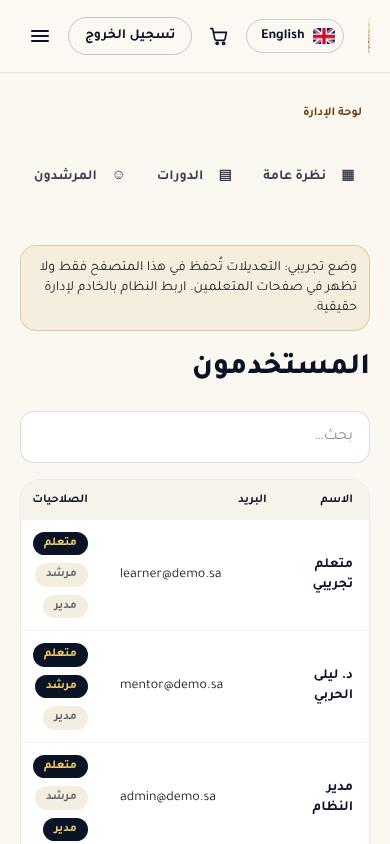
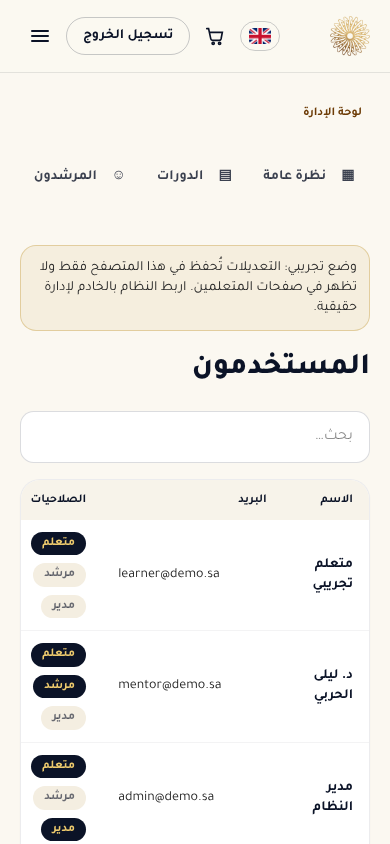
Luxury hero: arch-framed transparent portrait, glass nameplate and chips, gold typography; compact mobile header
Claude-Session: https://claude.ai/code/session_01GxeSFFg9T5gu79wgZgaDJ3

diff --git a/apps/web/src/app/[locale]/page.tsx b/apps/web/src/app/[locale]/page.tsx
@@ -35,38 +35,71 @@ export default async function Home({ params }: { params: Promise<{ locale: strin
 
   return (
     <>
-      {/* HERO: slogan, founder photo + word, signature placeholder */}
-      <section className="band relative overflow-hidden">
-        <div className="pointer-events-none absolute -end-40 -top-32 opacity-[.22]" aria-hidden="true"><GpmfSpiral size={520} /></div>
-        <div className="container-x relative grid items-center gap-10 pb-24 pt-12 lg:grid-cols-[1.1fr_.9fr] lg:pb-28 lg:pt-16">
+      {/* HERO: luxury layout. Slogan, founder word, arch-framed portrait, glass nameplate. */}
+      <section className="luxe-hero relative overflow-hidden">
+        <div className="pointer-events-none absolute -end-48 top-1/2 -translate-y-1/2 opacity-[.16]" aria-hidden="true"><GpmfSpiral size={640} /></div>
+        <div className="container-x relative grid items-center gap-12 pb-28 pt-12 lg:grid-cols-[1.05fr_.95fr] lg:pb-32 lg:pt-14">
           <div>
-            <span className="chip rise border border-gold/50 bg-white/70 text-gold-deep">{t.hero.badge}</span>
-            <h1 className="rise d1 mt-5 text-balance text-4xl font-black leading-[1.3] text-navy sm:text-5xl">{t.hero.slogan}</h1>
+            <span className="rise inline-flex items-center gap-2 rounded-full border border-gold/40 bg-white/70 px-4 py-1.5 text-xs font-bold tracking-wide text-gold-deep shadow-sm backdrop-blur">
+              <span className="gold-bg h-2 w-2 rounded-full" aria-hidden="true" />{t.hero.badge}
+            </span>
+            <h1 className="rise d1 mt-6 text-balance text-5xl font-black leading-[1.25] text-navy lg:text-[3.6rem]">
+              {t.hero.slogan.split(". ")[0]}.<br /><span className="gold-text">{t.hero.slogan.split(". ")[1]}</span>
+            </h1>
+            <div className="rise d1 mt-5 flex items-center gap-3" aria-hidden="true">
+              <span className="h-px w-20 bg-gradient-to-r from-gold to-transparent rtl:bg-gradient-to-l" /><span className="gold-bg h-2.5 w-2.5 rotate-45" /><span className="h-px w-8 bg-gold/40" />
+            </div>
             <p className="rise d2 mt-5 max-w-xl text-lg leading-8 text-navy/70">{t.hero.sub}</p>
-            <figure className="rise d3 card relative mt-8 max-w-xl p-6 ps-8">
-              <span className="gold-bg absolute inset-y-6 start-0 w-1.5 rounded-full" aria-hidden="true" />
-              <p className="text-xs font-bold uppercase tracking-wide text-gold-deep">{t.hero.eyebrow}</p>
-              <blockquote className="mt-2 text-lg font-medium leading-8 text-navy">“{t.hero.quote}”</blockquote>
-              <figcaption className="mt-4 flex flex-wrap items-end justify-between gap-4">
+            <figure className="rise d3 relative mt-8 max-w-xl overflow-hidden rounded-3xl border border-white/70 bg-white/65 p-7 ps-9 shadow-[0_30px_60px_-30px_rgba(109,60,7,.35)] backdrop-blur-xl">
+              <span className="gold-bg absolute inset-y-0 start-0 w-1.5" aria-hidden="true" />
+              <span className="gold-text pointer-events-none absolute -top-2 end-5 select-none font-serif text-[7rem] leading-none opacity-30" aria-hidden="true">”</span>
+              <p className="text-[11px] font-extrabold uppercase tracking-[.2em] text-gold-deep">{t.hero.eyebrow}</p>
+              <blockquote className="relative mt-3 text-[1.15rem] font-medium leading-9 text-navy">{t.hero.quote}</blockquote>
+              <figcaption className="mt-5 flex flex-wrap items-end justify-between gap-4 border-t border-gold/25 pt-4">
                 <span><b className="block text-navy">{tr(FOUNDER.name, locale)}</b><span className="text-sm text-mute">{tr(FOUNDER.role, locale)}</span></span>
-                <Signature label={t.hero.signature} image={FOUNDER.signatureImage} />
+                <Signature label={t.hero.signature} image={FOUNDER.signatureImage} name={FOUNDER.name.en} />
               </figcaption>
               {DRAFT_CONTENT && <p className="mt-3 text-xs text-gold-deep">{t.hero.draft}</p>}
             </figure>
             <div className="rise d4 mt-8 flex flex-wrap gap-3">
-              <Link href={L("/courses")} className="btn btn-gold">{t.home.ctaPrimary}</Link>
-              <Link href={L("/courses?mode=live")} className="btn btn-ghost">{t.home.ctaSecondary}</Link>
+              <Link href={L("/courses")} className="btn btn-gold btn-shine !px-8 !py-3.5 text-base">{t.home.ctaPrimary}</Link>
+              <Link href={L("/courses?mode=live")} className="btn btn-ghost !px-7 !py-3.5 bg-white/50 backdrop-blur">{t.home.ctaSecondary}</Link>
             </div>
-            <ul className="mt-7 flex flex-wrap gap-x-6 gap-y-2 text-sm text-navy/70">
-              {t.home.trust.map((x) => <li key={x} className="flex items-center gap-2"><span className="text-gold-deep">✓</span>{x}</li>)}
+            <ul className="mt-7 flex flex-wrap gap-x-6 gap-y-2 text-sm text-navy/75">
+              {t.home.trust.map((x) => <li key={x} className="flex items-center gap-2"><span className="gold-bg flex h-4 w-4 items-center justify-center rounded-full text-[9px] font-black text-navy">✓</span>{x}</li>)}
             </ul>
           </div>
-          <div className="relative mx-auto w-full max-w-[440px] rise d2">
-            <div className="absolute inset-x-6 bottom-0 top-16 rounded-full bg-gradient-to-b from-gold-light/50 via-gold/20 to-transparent blur-2xl" aria-hidden="true" />
-            <div className="absolute inset-x-10 bottom-0 top-24 rounded-t-[999px] border border-b-0 border-gold/30" aria-hidden="true" />
-            <Image src={FOUNDER.photo} alt={tr(FOUNDER.name, locale)} width={635} height={894} priority className="relative h-auto w-full drop-shadow-[0_20px_30px_rgba(11,19,39,.18)] [mask-image:linear-gradient(to_bottom,#000_88%,transparent)]" />
+
+          <div className="rise d2 relative mx-auto w-full max-w-[470px]">
+            <div className="absolute inset-x-0 bottom-10 top-28 rounded-full bg-gradient-to-b from-gold-light/60 via-gold/15 to-transparent blur-3xl" aria-hidden="true" />
+            {/* double arch frame */}
+            <div className="absolute inset-x-0 bottom-0 top-20 rounded-t-[999px] border border-b-0 border-gold/30" aria-hidden="true" />
+            <div className="absolute inset-x-5 bottom-0 top-28 rounded-t-[999px] p-[2px]" style={{ background: "linear-gradient(165deg,#edca6d,#c49c3e 45%,rgba(196,156,62,.12))" }} aria-hidden="true">
+              <div className="h-full w-full rounded-t-[999px]" style={{ background: "radial-gradient(80% 60% at 50% 20%, #fffdf7, #f6efdc 70%, #efe4c8)" }} />
+            </div>
+            <Image src={FOUNDER.photo} alt={tr(FOUNDER.name, locale)} width={1000} height={1402} priority sizes="(min-width:1024px) 470px, 90vw"
+              className="relative z-10 h-auto w-full drop-shadow-[0_28px_30px_rgba(109,60,7,.22)]" style={{ maskImage: "linear-gradient(to bottom,#000 88%,transparent), linear-gradient(to right,transparent,#000 7%,#000 93%,transparent)", maskComposite: "intersect", WebkitMaskComposite: "source-in" }} />
+            {/* floating glass chips */}
+            <div className="animate-float absolute start-0 top-40 z-20 flex items-center gap-2 rounded-2xl border border-white/70 bg-white/75 px-3.5 py-2.5 text-xs font-bold text-navy shadow-xl backdrop-blur-md">
+              <span className="gold-bg flex h-6 w-6 items-center justify-center rounded-full text-[11px] text-navy">★</span>{t.home.trust[0]}
+            </div>
+            <div className="absolute end-0 top-[58%] z-20 flex items-center gap-2 rounded-2xl border border-white/70 bg-white/75 px-3.5 py-2.5 text-xs font-bold text-navy shadow-xl backdrop-blur-md" style={{ animation: "float 8s ease-in-out 1s infinite" }}>
+              <span className="gold-bg flex h-6 w-6 items-center justify-center rounded-full text-[11px] text-navy">🎓</span>{t.home.trust[1]}
+            </div>
+            {/* nameplate */}
+            <div className="absolute inset-x-6 bottom-0 z-20 translate-y-1/2 rounded-2xl border border-white/70 bg-white/80 p-4 shadow-[0_24px_50px_-18px_rgba(11,19,39,.35)] backdrop-blur-xl">
+              <div className="flex items-center gap-3">
+                <img src="/brand/gpmf-flower-256.png" alt="" width={40} height={40} className="h-10 w-10" />
+                <div className="min-w-0">
+                  <p className="font-black text-navy">{tr(FOUNDER.name, locale)}</p>
+                  <p className="truncate text-xs text-mute">{tr(FOUNDER.role, locale)}</p>
+                </div>
+              </div>
+              <span className="absolute inset-x-6 top-0 h-px bg-gradient-to-r from-transparent via-gold to-transparent" aria-hidden="true" />
+            </div>
           </div>
         </div>
+        <span className="absolute inset-x-0 bottom-0 h-px bg-gradient-to-r from-transparent via-gold/60 to-transparent" aria-hidden="true" />
       </section>
 
       {/* TRACKS */}

diff --git a/apps/web/src/components/Header.tsx b/apps/web/src/components/Header.tsx
@@ -31,8 +31,8 @@ export function Header({ locale, t }: { locale: Locale; t: Dict }) {
     <>
     <header className="sticky top-0 z-50 border-b border-navy/10 bg-cream/90 text-navy backdrop-blur-xl">
       <div className="container-x flex h-[72px] items-center gap-6">
-        <Link href={L("")} className="flex items-center gap-3" aria-label={t.brand.name}>
-          <img src="/favicon-64.png" alt="" width={40} height={40} className="h-10 w-10" />
+        <Link href={L("")} className="flex shrink-0 items-center gap-3" aria-label={t.brand.name}>
+          <img src="/favicon-64.png" alt="" width={40} height={40} className="h-10 w-10 shrink-0" />
           <span className="hidden whitespace-nowrap leading-tight min-[1500px]:block">
             <span className="block text-[15px] font-extrabold gold-text">{t.brand.name}</span>
             <span className="block text-[11px] text-mute">{t.brand.tagline}</span>
@@ -43,9 +43,9 @@ export function Header({ locale, t }: { locale: Locale; t: Dict }) {
             <Link key={l.href} href={l.href} className="whitespace-nowrap rounded-full px-3 py-2 text-sm font-medium text-navy/80 transition hover:bg-navy/5 hover:text-gold-deep">{l.label}</Link>
           ))}
         </nav>
-        <div className="ms-auto flex items-center gap-2">
-          <Link href={switchHref} onClick={(e) => { e.preventDefault(); router.push(switchHref + window.location.search); }} className="flex items-center gap-2 whitespace-nowrap rounded-full border border-navy/20 py-1.5 ps-2 pe-3.5 text-sm font-bold transition hover:border-gold hover:bg-white" hrefLang={other} lang={other} title={t.nav.language} aria-label={t.nav.language}>
-            <span className={`fi ${other === "ar" ? "fi-sa" : "fi-gb"} rounded-sm`} style={{ width: 22, height: 16, backgroundSize: "cover" }} aria-hidden="true" />{t.nav.language}
+        <div className="ms-auto flex min-w-0 items-center gap-1.5 sm:gap-2">
+          <Link href={switchHref} onClick={(e) => { e.preventDefault(); router.push(switchHref + window.location.search); }} className="flex items-center gap-2 whitespace-nowrap rounded-full border border-navy/20 py-1.5 ps-2 pe-2 sm:pe-3.5 text-sm font-bold transition hover:border-gold hover:bg-white" hrefLang={other} lang={other} title={t.nav.language} aria-label={t.nav.language}>
+            <span className={`fi ${other === "ar" ? "fi-sa" : "fi-gb"} rounded-sm`} style={{ width: 22, height: 16, backgroundSize: "cover" }} aria-hidden="true" /><span className="hidden sm:inline">{t.nav.language}</span>
           </Link>
           <Link href={L("/cart")} className="relative rounded-full p-2 hover:bg-navy/5" aria-label={t.nav.cart}>
             <svg width="22" height="22" viewBox="0 0 24 24" fill="none" stroke="currentColor" strokeWidth="1.8" strokeLinecap="round"><path d="M3 4h2l2.4 11.2a2 2 0 002 1.6h7.2a2 2 0 002-1.5L20 8H6.2"/><circle cx="10" cy="20" r="1.2"/><circle cx="17" cy="20" r="1.2"/></svg>
@@ -54,7 +54,7 @@ export function Header({ locale, t }: { locale: Locale; t: Dict }) {
           {ready && !user && (
             <>
               <Link href={L("/login")} className="hidden px-3 py-2 text-sm font-medium hover:text-gold-deep sm:block">{t.nav.login}</Link>
-              <Link href={L("/register")} className="btn btn-gold !px-5 !py-2 text-sm">{t.nav.register}</Link>
+              <Link href={L("/register")} className="btn btn-gold !px-4 !py-2 text-sm sm:!px-5">{t.nav.register}</Link>
             </>
           )}
           {ready && user && (

diff --git a/apps/web/src/app/globals.css b/apps/web/src/app/globals.css
@@ -90,3 +90,13 @@ body { font-family: "Tajawal", "Roboto", system-ui, sans-serif; background: var(
   .container-x { padding: 0 !important; max-width: none !important; }
   #certificate { width: 100vw !important; height: 100vh !important; box-shadow: none !important; margin: 0 !important; }
 }
+
+/* Luxury hero background: ivory, soft gold light, fine concentric lines */
+.luxe-hero { background:
+  radial-gradient(55% 70% at 85% 35%, rgb(237 202 109 / .35), transparent 70%),
+  radial-gradient(45% 60% at 5% 100%, rgb(167 89 209 / .07), transparent 70%),
+  repeating-radial-gradient(circle at 80% 45%, transparent 0 46px, rgb(196 156 62 / .07) 46px 47px),
+  linear-gradient(180deg, #fffdf8 0%, #f7f0df 100%); }
+.btn-shine { position: relative; overflow: hidden; }
+.btn-shine::after { content: ""; position: absolute; inset: 0; background: linear-gradient(110deg, transparent 35%, rgb(255 255 255 / .55) 50%, transparent 65%); transform: translateX(-120%); animation: shine 3.8s ease-in-out 1.2s infinite; }
+@keyframes shine { 0%, 55% { transform: translateX(-120%) } 100% { transform: translateX(120%) } }
